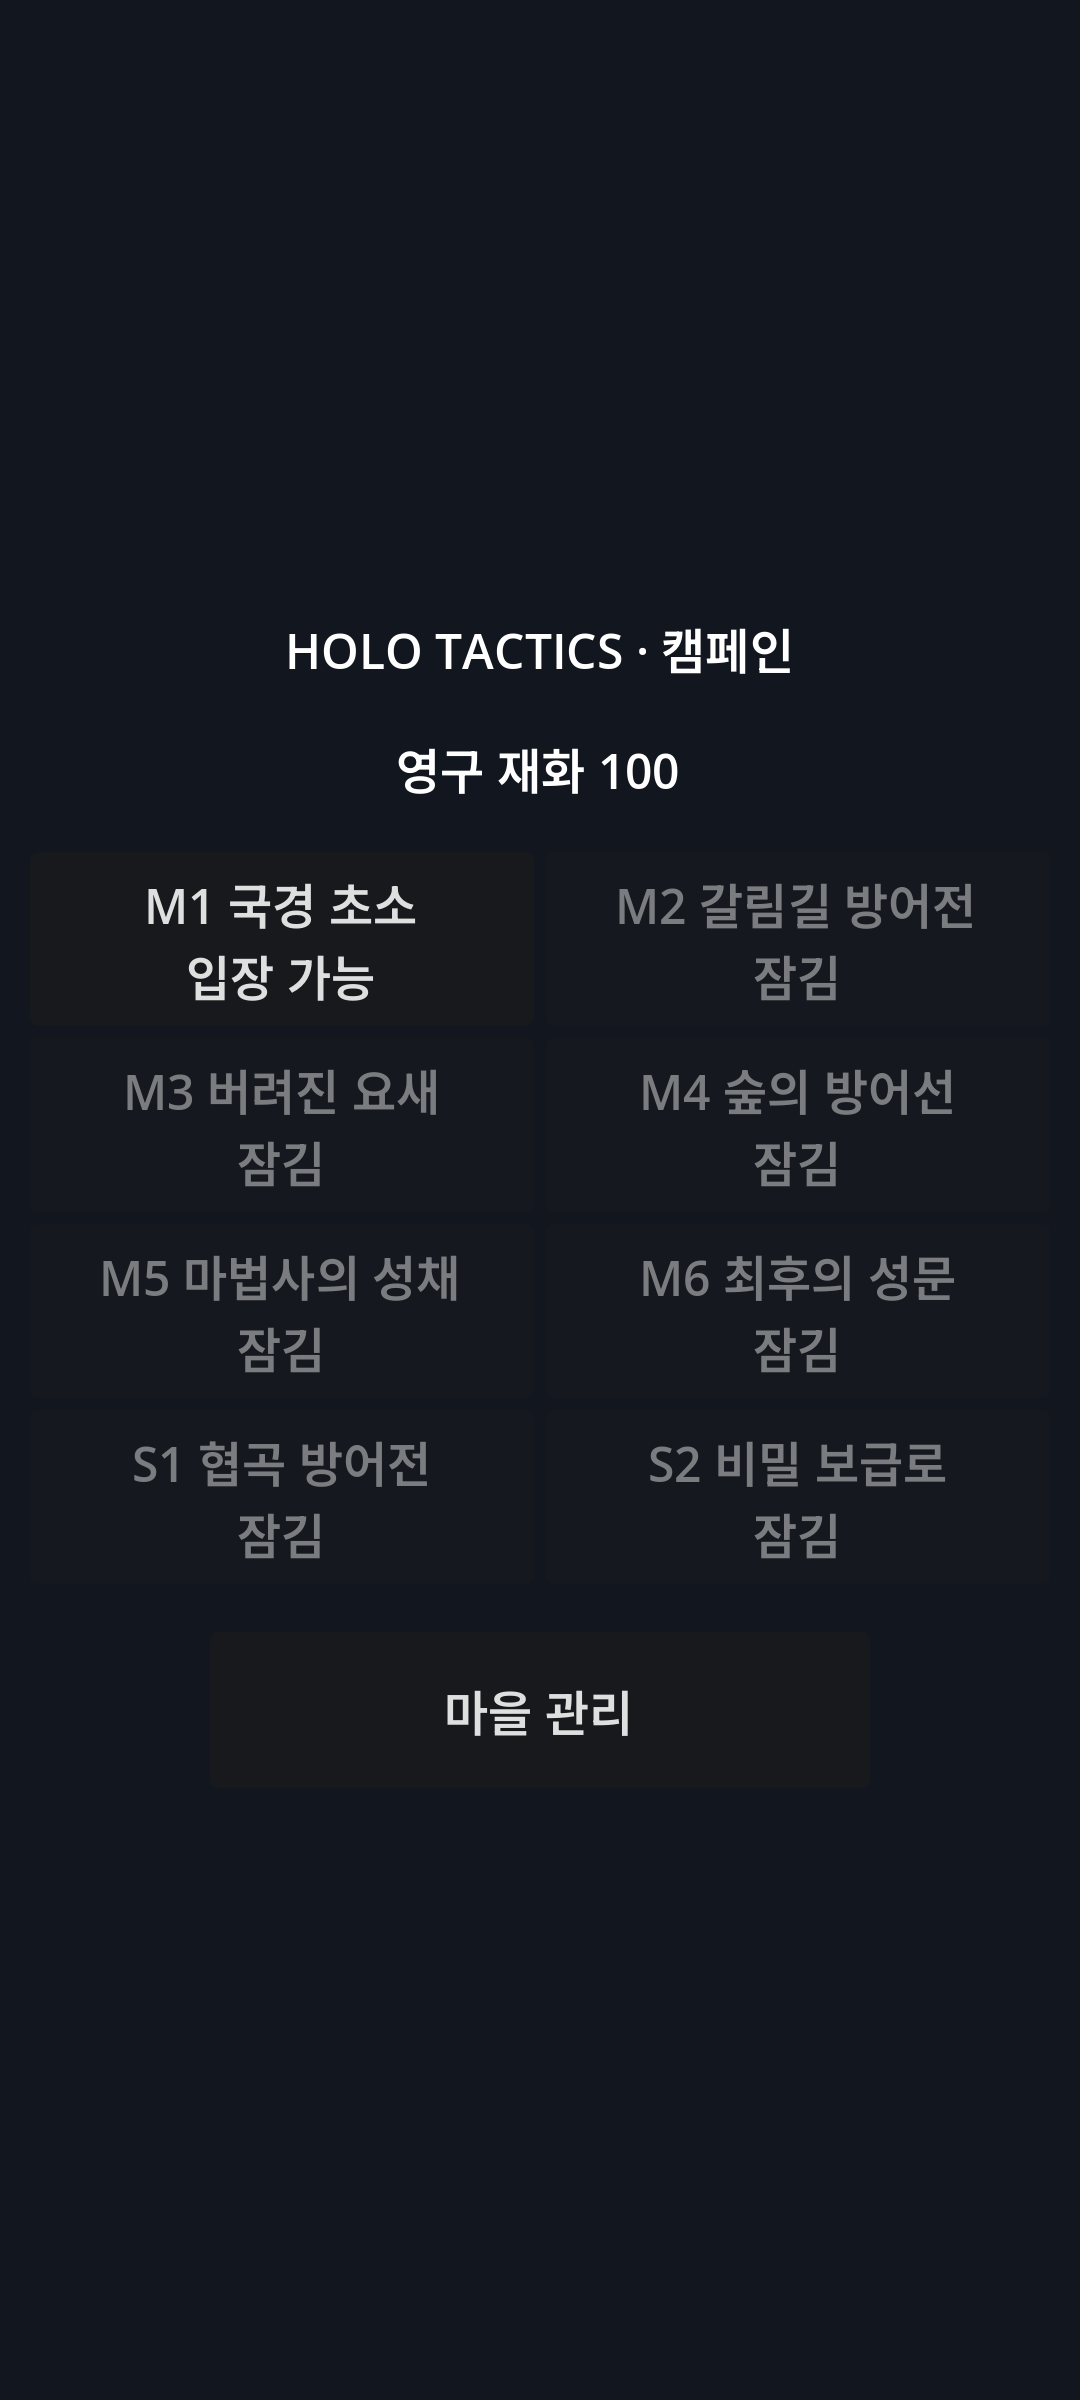
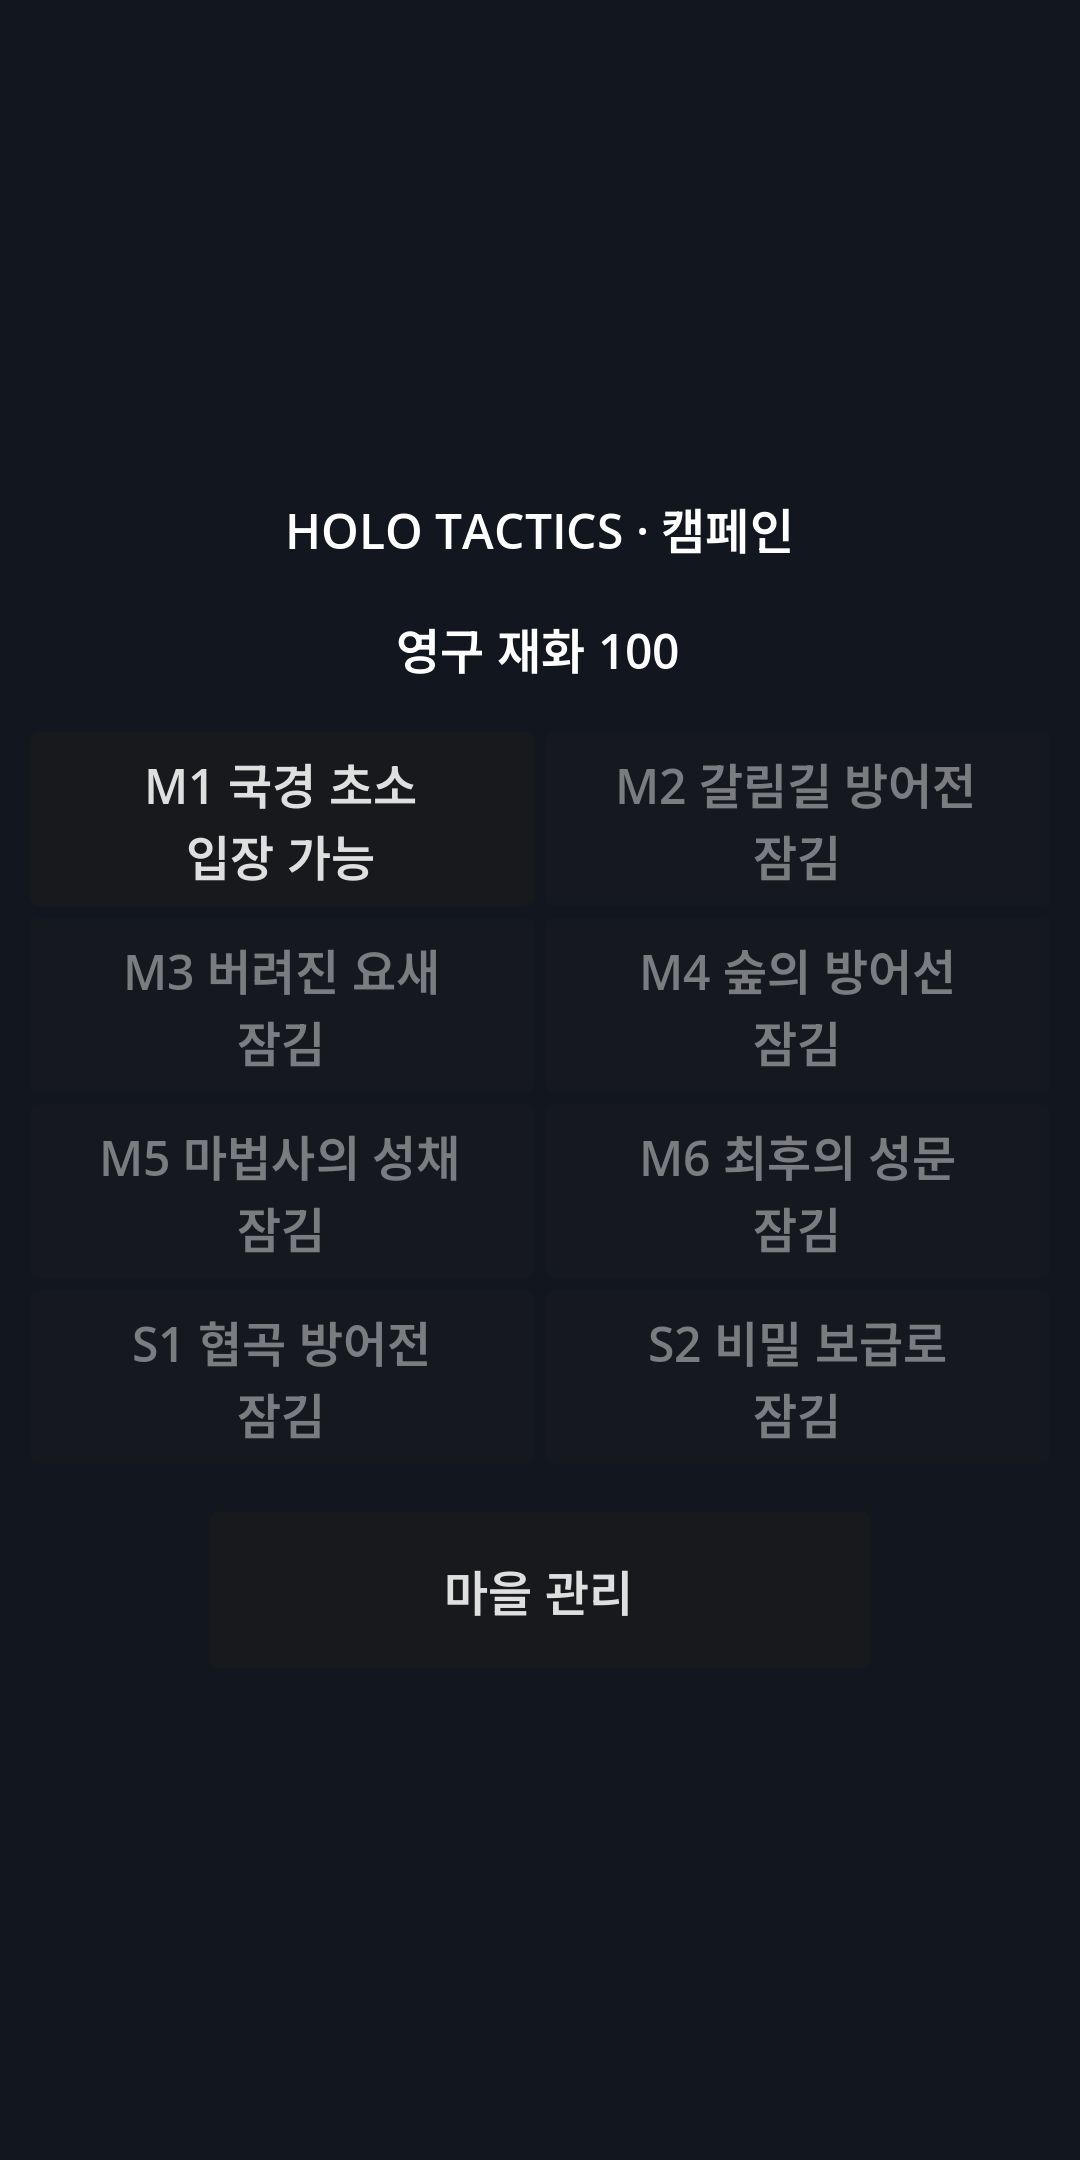
Refresh compliant ratio gameplay captures

diff --git a/ISSUES.md b/ISSUES.md
@@ -230,14 +230,15 @@ The original four design documents now consistently reflect confirmed user rules
 - Root cause: the workflow ran `--install-android-build-template` without an export action, leaving all six recent Android jobs stuck while Godot tests passed.
 - Fix: combine template installation with debug AAB export and set a 20-minute timeout. CI run `43351099459` passed both jobs and uploaded the unsigned test artifact. No Play-ready signing or release was performed.
 
-## API37 emulator M1 retest is inconclusive (2026-11-13)
+## API37 emulator M1 transition is intermittent (2026-11-13)
 
 - The confirmed-ID APK installs and launches; the campaign screen is visible. During a fresh visible-AVD retest, tapping M1 was followed by a black screenshot while the Android activity and app process remained alive. Logcat contained no Godot script exception, while the emulator's `android.hardware` compositor process repeatedly aborted.
 - This does not establish a game defect or an M1 pass. Earlier API37 M1 combat evidence remains, but the discrepancy needs a stable AVD reproduction and Galaxy S25 Ultra hands-on confirmation. Do not use this AVD retest as Android acceptance or FPS evidence.
 - Reproduced on a second Pixel 8/API37.2 AVD: host GPU rendered the campaign, then M1 tap yielded a black screenshot with the app still foreground; software GPU produced a black initial screenshot. Both logged recurring emulator compositor SIGABRTs without a Godot script exception. API36 cannot be checked because its system image is missing from the SDK. Root cause remains unassigned; confirm the M1 flow on physical hardware before deciding whether code needs a fix.
 - Isolation now reproduces black output after both M1 and Village scene changes under lavapipe and host GPU, while the campaign renders; SwiftShader is black from launch. Android reports zero rendered frames during a 5-second black interval and recurring compositor SIGABRTs. This points to the workstation's API37 AVD presentation path rather than an M1-specific rule path, but it is not sufficient to clear physical-device acceptance.
 - A temporary Compatibility/OpenGL diagnostic APK from an ignored project copy had the same campaign-visible/M1-transition-black behavior on Pixel 8/API37.2; the production project settings were untouched and the regular debug APK was restored. This rules out a Vulkan-only AVD failure but still cannot distinguish an app scene-transition defect from the AVD's Android surface/compositor behavior. Physical-device reproduction is required before changing production renderer or scene flow.
-- A separate temporary Mobile/Vulkan APK with `scenes/battle.tscn` as its startup scene rendered M1 and ran combat on the same AVD; the campaign-to-battle transition remains the failing path. The AVD also reports compositor crashes and frame loss on scene changes. This narrows the issue to AVD scene/surface transitions, but normal navigation still needs physical verification because AVD evidence cannot establish a device pass.
+- A separate temporary Mobile/Vulkan APK with `scenes/battle.tscn` as its startup scene rendered M1 and ran combat on the same AVD. At that time the campaign-to-battle transition appeared to be the failing path; later API37 navigation succeeded after reconnect and a 1080×2160 size override (see follow-up below). Earlier compositor crashes/frame loss still make the AVD inconsistent, and physical verification is required.
+- Follow-up on the same workstation after reconnecting API37 AVD: set logical size to 1080×2160, entered M1 from the current production APK, deployed a swordsman and started wave 1. The battle and enemy rendered with no matching Godot script/fatal exception in the inspected logcat window. Restored the physical 1080×2400 size afterward. The earlier black captures are not reproduced under this run, so retain them as an intermittent AVD issue and verify on the S25 Ultra before changing renderer/navigation code.
 
 ## User-provided M6 dependencies (2026-11-13)
 
@@ -248,4 +249,4 @@ The original four design documents now consistently reflect confirmed user rules
 
 - Drafted Korean listing text and an owner-facing checklist in `PLAY_PRIVATE_TEST_PREPARATION.md`; icon/feature graphic and emulator screenshot draft files now exist in `store_assets/draft/`, but owner design approval, compliant final screenshots, developer/support/privacy details, tester roster, app-ID availability and signed release AAB remain missing or unverified.
 - The target is Closed testing as specified by the project; Internal testing's incomplete-setup allowance does not clear Closed testing requirements. Verify current Console requirements when the owner has access.
-- Draft screenshots in `store_assets/draft/screenshots/` are 1080×2400 (2.22:1), exceeding the current 2:1 maximum. Keep them out of a release upload until recaptured or cropped without obscuring gameplay.
+- Resolved the screenshot aspect-ratio issue on API37 AVD by capturing current campaign and M1 gameplay at 1080×2160 (2:1). The files remain emulator drafts pending Galaxy S25 Ultra capture and owner review.

diff --git a/ANDROID_TESTING.md b/ANDROID_TESTING.md
@@ -79,11 +79,11 @@ After the S25 Ultra run, send `build/device-perf.txt`, `build/device-gfxinfo.txt
 - The debug APK and its debug certificate are not a release upload.
 - User confirmed application ID `com.rhstudio.holotactics`; Play Console availability, release/upload keystore, and Play Console access have not been verified or provided. Never put signing credentials in this repository.
 - Before private testing, verify the ID is available in the publisher's Play Console, configure a protected release signing credential outside Git, export and verify a signed release AAB, then upload through the authorized Play Console account. Store listing, privacy declarations, and tester access still need publisher-owned information.
-- Korean listing copy, draft icon/feature graphic, draft screenshots and account-owner checklist are in `PLAY_PRIVATE_TEST_PREPARATION.md`; the current emulator screenshots exceed Play's documented 2:1 maximum aspect ratio and must be replaced or recaptured before submission.
+- Korean listing copy, draft icon/feature graphic, compliant 2:1 AVD screenshots and account-owner checklist are in `PLAY_PRIVATE_TEST_PREPARATION.md`; replace/confirm the emulator captures on physical hardware before submission.
 
 ## Current verification state
 
-The user-confirmed ID is `com.rhstudio.holotactics`. Current Godot tests/content validation and GitHub Actions Godot+AAB jobs pass. The debug APK is signed with its debug certificate and has installed/launched on API37 AVD. Earlier API37 tests entered M1 and exercised deployment, waves, checkpoint/reward. Recent AVD checks black out after campaign-to-battle and campaign-to-village scene changes while graphics services fail; a temporary direct-start M1 build rendered combat, confirming the battle scene itself can draw on that AVD. This does not validate normal navigation on physical devices. API29 AVD Vulkan presentation fails, and the SDK has no Android 36 system image. Galaxy S25 Ultra install/startup is user-confirmed, but physical combat/FPS and Android 10 hardware remain unverified. The current test AAB is unsigned; publisher signing and Play Console access are still missing.
+The user-confirmed ID is `com.rhstudio.holotactics`. Current Godot tests/content validation and GitHub Actions Godot+AAB jobs pass. The debug APK is debug-signed and installed on API37 AVD. Earlier API37.2 runs produced black captures after scene changes while emulator graphics services crashed; after reconnecting the AVD and setting 1080×2160, the current app entered M1 from campaign, accepted unit placement, and rendered the active wave. Treat AVD scene-transition behavior as intermittent until physical testing; this is not S25 validation or FPS evidence. API29 AVD Vulkan presentation still fails, and the SDK lacks an Android 36 system image. Galaxy S25 Ultra install/startup is user-confirmed, but physical combat/FPS and Android 10 hardware remain unverified. The current test AAB is unsigned; publisher signing and Play Console access are still missing.
 
 
 Latest local exports (2026-11-12): Debug APK 249,828,829 bytes; unsigned test AAB 86,236,623 bytes. Both use min API 29 / target API 36. APK v2 signature and AAB bundletool 1.18.3 validation pass. The API 37 AVD visual check is only an emulator smoke test, not a physical-device performance result.

diff --git a/TEST_REPORT.md b/TEST_REPORT.md
@@ -775,5 +775,11 @@ Tried the CI AAB export locally with `--quit-after 2`. Godot launched the Androi
 ## Play listing asset drafts (2026-11-13)
 
 - Generated and inspected `store_assets/draft/app_icon_512.png` (512×512, 2,374 bytes) and `feature_graphic_1024x500.png` (1024×500, 24-bit RGB, 20,565 bytes) from the existing pixel-art icon and code-native SVG layout.
-- Converted the API37 campaign screen and M1 defense diagnostic capture to JPEG (1080×2400 each). Both are 2.22:1 and the helper warns that they exceed Play's current 2:1 screenshot aspect limit; they remain drafts and must be recaptured/cropped compliantly before submission. The M1 image came from a direct-start diagnostic copy, not a normal campaign scene transition.
+- Initial captures were 1080×2400 and over Play's current 2:1 screenshot aspect limit; superseded by the compliant-ratio production-app captures documented below. The first M1 image came from a direct-start diagnostic copy, not a normal campaign scene transition.
 - `tools/export_play_assets.gd`, `tools/complete_play_feature.ps1`, and `tools/prepare_play_screenshots.ps1` generated and checked the outputs. This validates dimensions/encoding only, not brand approval, final store acceptance, physical-device screenshots, or Console submission.
+
+## 2:1 Android gameplay captures (2026-11-13)
+
+- Reconnected the existing API37 x86_64 AVD and confirmed the installed `com.rhstudio.holotactics` process was foreground. Temporarily set Android display size to 1080×2160, entered M1 from campaign, placed one swordsman (resource 160→110), and started the wave; an enemy rendered and the app stayed foreground. Targeted Godot/AndroidRuntime error scan returned no matching script/fatal exception lines in the inspected log buffer.
+- Replaced draft screenshots with current app captures: campaign and M1 combat each 1080×2160 (2:1), converted to JPEG/24-bit RGB. These fit the current Play screenshot aspect limit. The old AVD size was restored with `wm size reset` (physical 1080×2400) after capture.
+- This improves emulator navigation/render evidence and produces compliant-ratio drafts; it does not establish physical-device behavior or FPS. User's S25 Ultra hands-on test remains pending.

diff --git a/PLAY_PRIVATE_TEST_PREPARATION.md b/PLAY_PRIVATE_TEST_PREPARATION.md
@@ -45,7 +45,8 @@
 - [ ] 계정 소유자가 Play App Signing 선택 및 업로드 키 보관 방식을 결정하고, 보호된 환경 변수로 서명 AAB 내보내기
 - [x] 등록 자료 초안 생성: `store_assets/draft/app_icon_512.png` (512×512 PNG), `feature_graphic_1024x500.png` (1024×500 PNG, 24-bit), `screenshots/`에 캠페인과 M1 전투 화면 (JPEG 형식으로 변환)
 - [ ] 소유자가 앱 아이콘·기능 그래픽의 브랜드 사용과 디자인을 검토·승인
-- [ ] 실제 대상 기기에서 게임플레이 스크린샷을 다시 캡처하고 Play 규격의 화면 비율에 맞출 것. 현재 두 장은 API37 에뮬레이터 초안(1080×2400, 2.22:1)이라 Play의 최대 2:1 화면 비율 기준을 넘어서 최종 업로드에 사용할 수 없음
+- [x] API37 AVD에서 2:1 화면비 캠페인·M1 전투 스크린샷을 캡처하고 JPEG로 변환: 1080×2160
+- [ ] Galaxy S25 Ultra 등 실제 대상 기기에서 최종 게임플레이 스크린샷을 다시 캡처하고 소유자가 검토
 - [ ] 개발자 표시명, 지원 이메일, 피드백 연락처 및 개인정보처리방침 URL 제공
 - [ ] 콘텐츠 등급 설문, 타깃 연령, 광고 여부, 앱 액세스 질문을 실제 앱 동작에 맞춰 작성
 - [ ] 최종 AAB의 SDK/권한/포함된 라이브러리와 데이터 흐름을 확인하고 Data safety 답변을 소유자가 확정
@@ -61,7 +62,7 @@ Windows에서 초안을 다시 생성할 때:
 & .\tools\prepare_play_screenshots.ps1
 ```
 
-스크린샷 변환 스크립트는 현재 2.22:1 AVD 캡처에 경고를 낸다. 게임 화면을 가리기 위한 자동 크롭은 하지 않는다.
+스크린샷 변환 스크립트는 최대 2:1 규격을 초과하면 경고한다. 현재 파일은 1080×2160 AVD 캡처로 규격 안에 있지만, 실기기 자료와 소유자 검토 전에는 최종 스토어 스크린샷으로 취급하지 않는다.
 
 ## 계정 작업 전후 순서
 

diff --git a/PROGRESS.md b/PROGRESS.md
@@ -359,6 +359,7 @@ API37 emulator repeat-play smoke completed the two-wave M1 defense. The result p
 ## Play private-test preparation (2026-11-13)
 
 - Added `PLAY_PRIVATE_TEST_PREPARATION.md` with a Korean store-description/release-notes draft, verified project metadata, official Play requirements and owner-only setup checklist.
-- Generated draft app icon and feature graphic plus campaign/M1 screenshot files under `store_assets/draft/`; image dimensions and encodings were checked. The 1080×2400 emulator screenshots exceed Play's 2:1 ratio limit, so the packet explicitly treats them as drafts and requires compliant replacement/capture.
+- Generated draft app icon and feature graphic plus campaign/M1 screenshots under `store_assets/draft/`; image dimensions/encodings are checked. Re-captured the campaign-to-M1 flow at 1080×2160 (2:1) on API37 AVD, replacing the earlier over-limit 1080×2400 drafts. Physical-device capture and owner review remain open.
+- Revalidated production campaign→M1 navigation at the same 2:1 AVD size: deployed one swordsman, started wave 1, and saw an enemy render. Prior AVD black transitions are now treated as intermittent, not a confirmed game defect; S25 Ultra validation remains the acceptance gate.
 - Distinguished Closed testing from Internal testing; listing assets, privacy/contact details, package ID availability, signing, Console access and tester roster remain owner/Console tasks. No credentials or account actions were performed.
 - The document records the existing 192px SVG icon and unsigned CI AAB as insufficient store assets/upload material. This advances preparation only; it does not satisfy M6's actual closed-test distribution gate.
